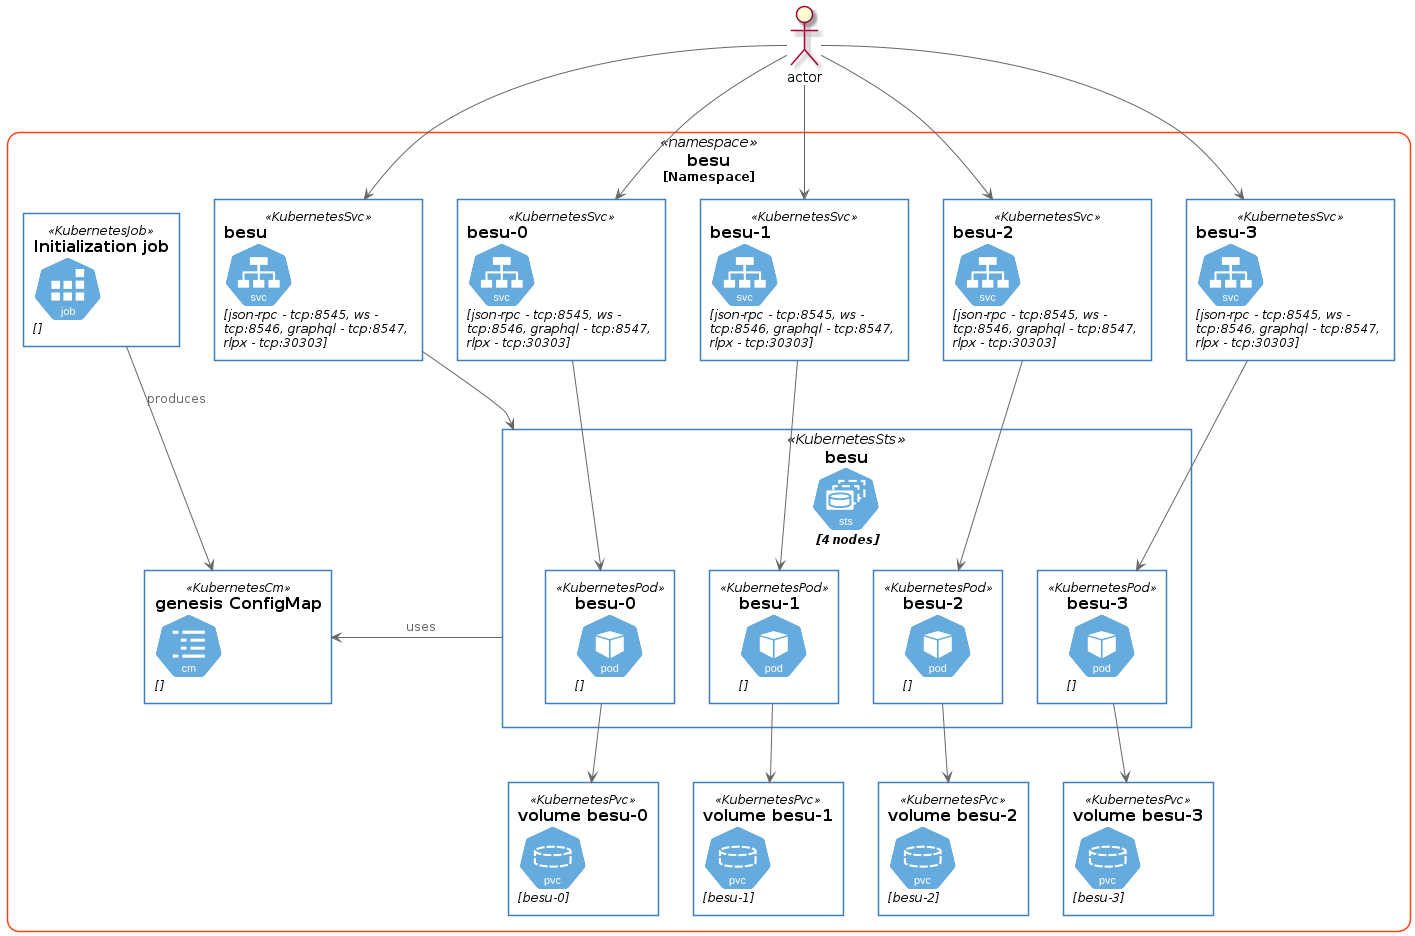
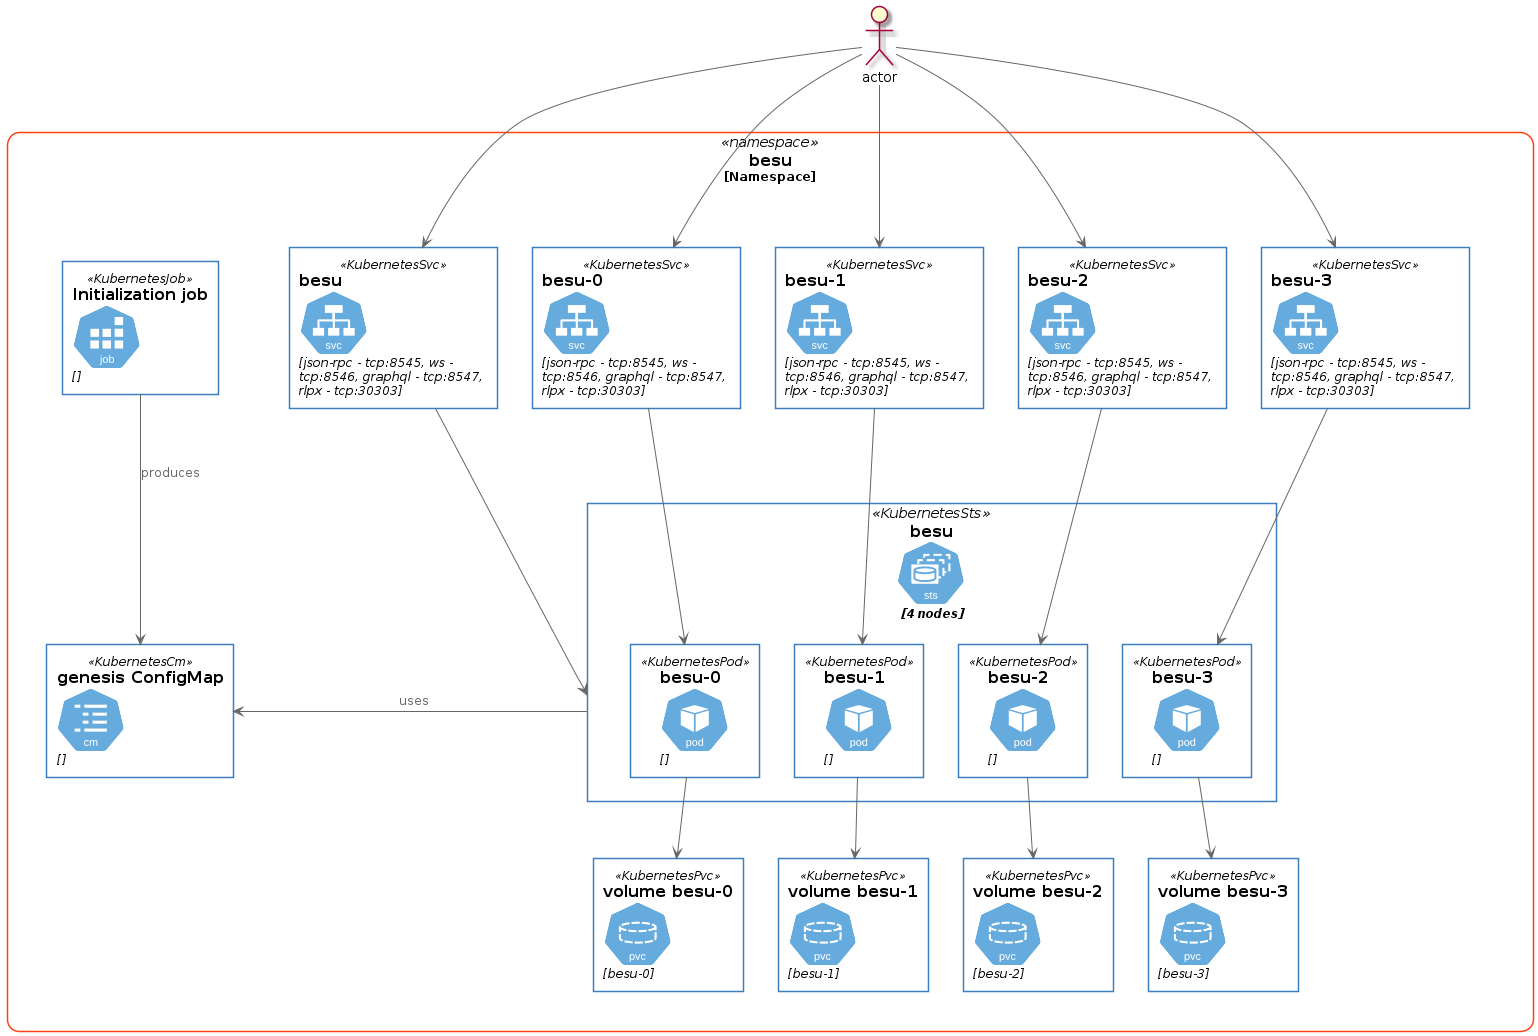
docs: update diagrams

diff --git a/docs/daml-on-besu/diagrams.md b/docs/daml-on-besu/diagrams.md
@@ -2,4 +2,4 @@
 
 ![DAML on Besu](diagrams/daml-on-besu.png)
 
-[PlantUML Source](diagrams/daml-on-besu.plantuml)
+![DAML on Besu - Private](diagrams/daml-on-besu-private.png)

diff --git a/docs/besu/diagrams.md b/docs/besu/diagrams.md
@@ -2,4 +2,4 @@
 
 ![Besu](diagrams/besu.png)
 
-[PlantUML Source](diagrams/besu.plantuml)
+![Besu - Private](diagrams/besu-private.png)

diff --git a/docs/orion/diagrams.md b/docs/orion/diagrams.md
@@ -1,5 +1,3 @@
 # Deployment Diagram
 
 ![Orion](diagrams/orion.png)
-
-[PlantUML Source](diagrams/orion.plantuml)
